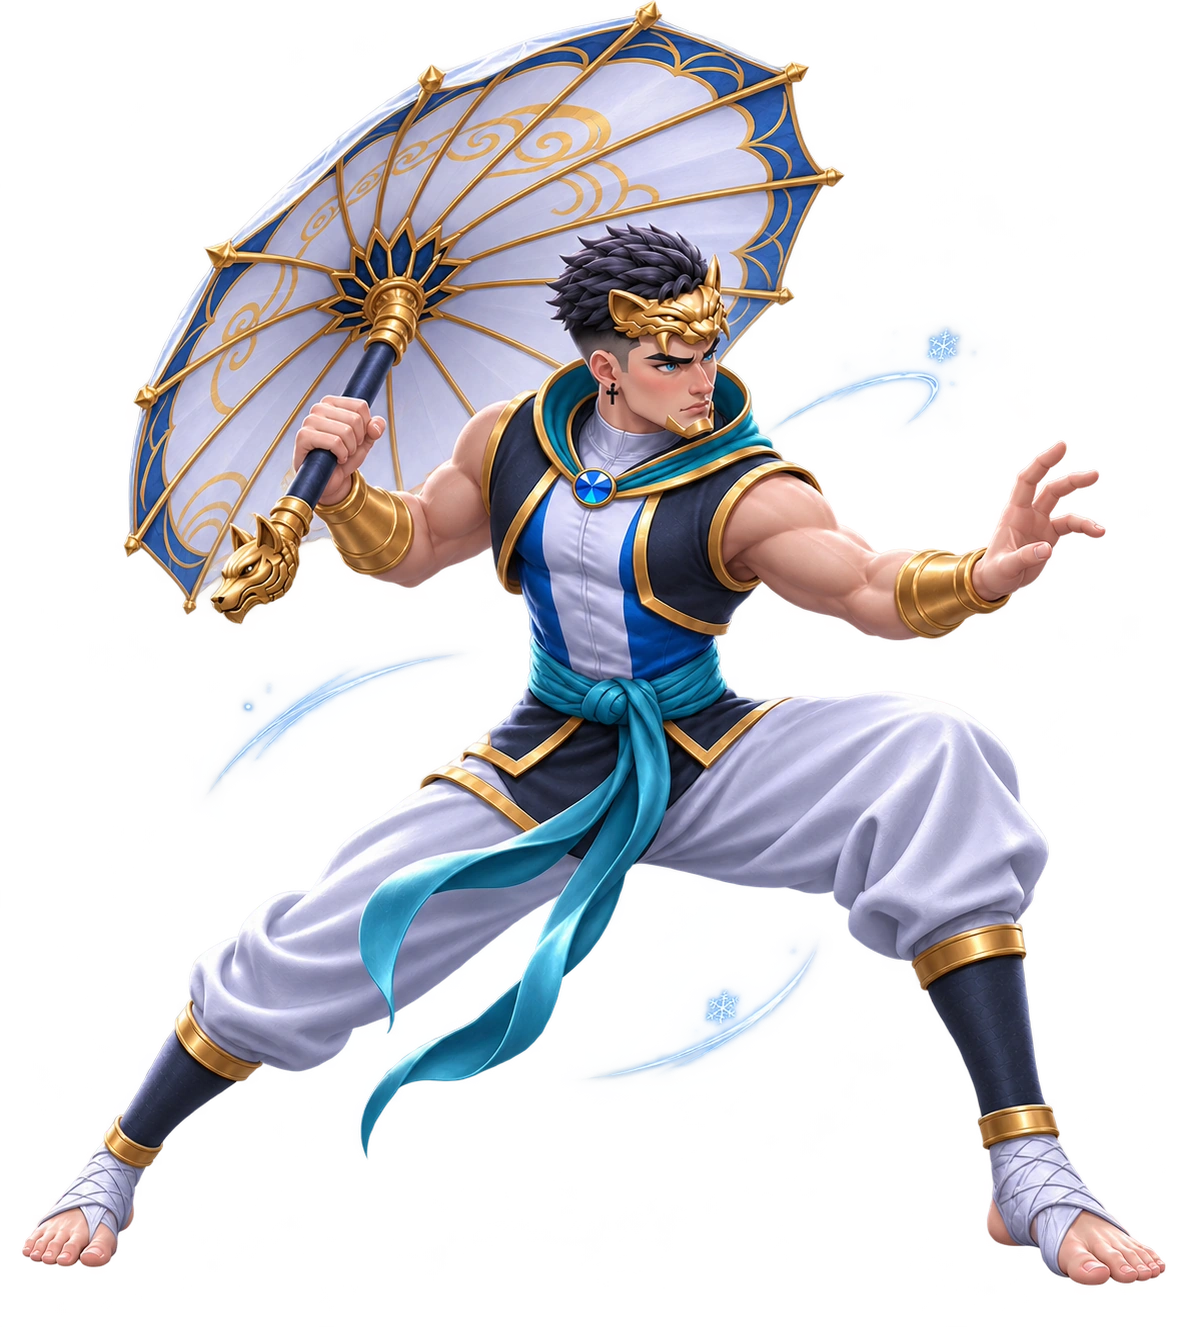
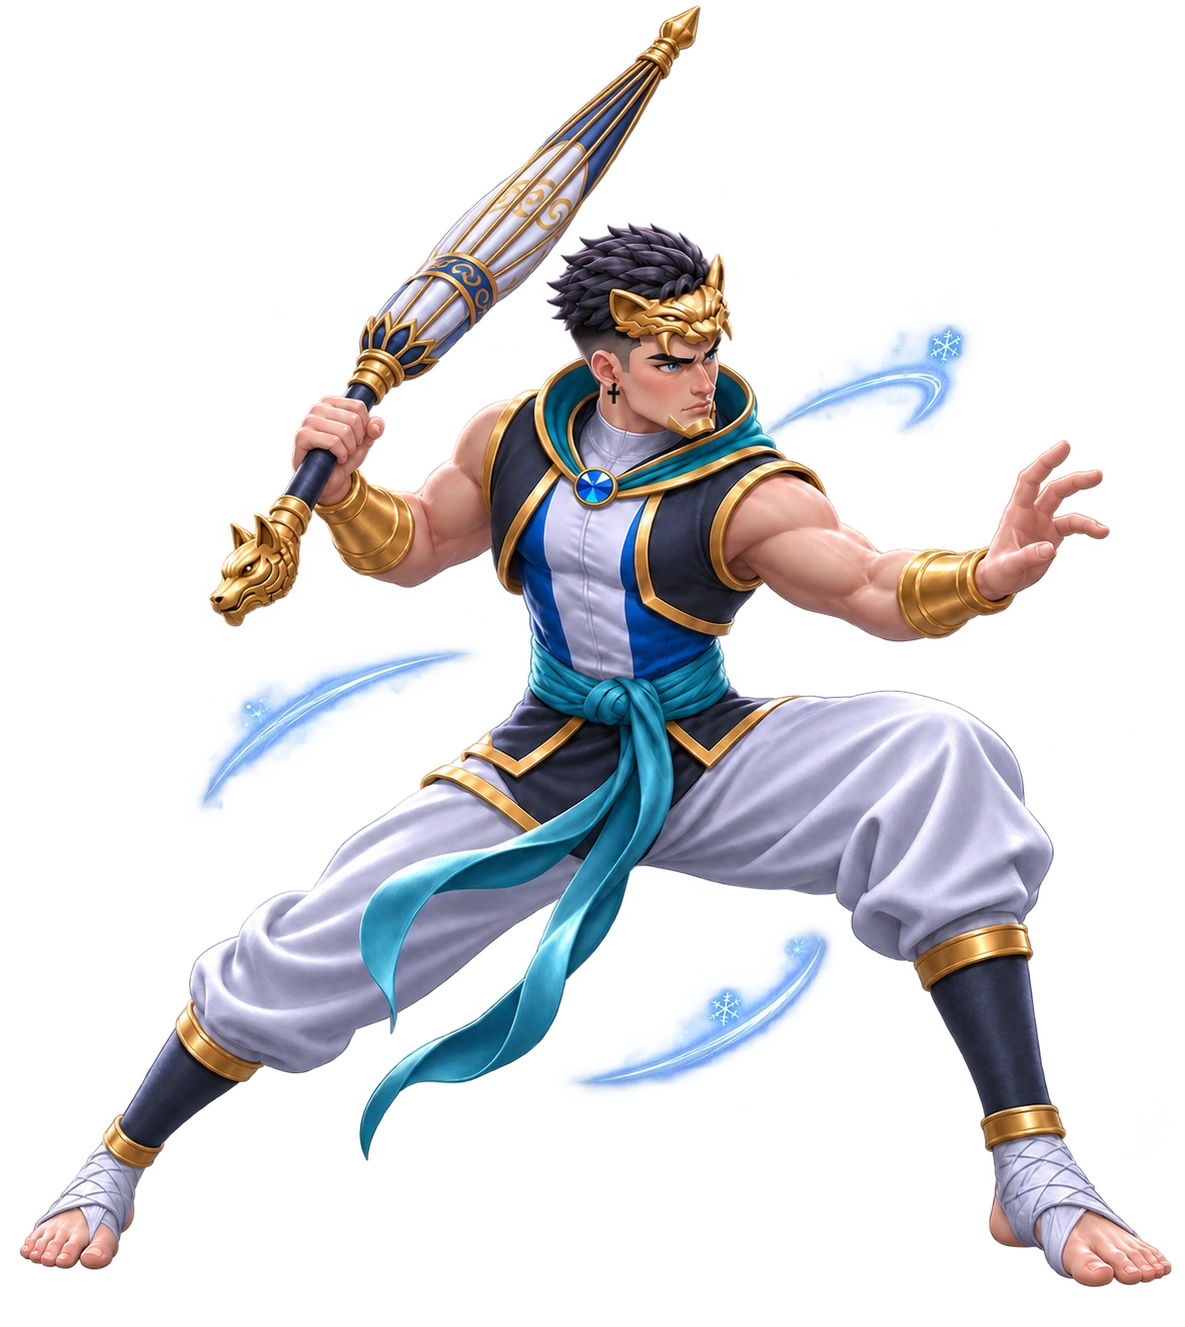
Add Island Paradise VS stances and close Dimitri umbrella

diff --git a/game.js b/game.js
@@ -3462,6 +3462,8 @@ const versusStanceFrames = new Map([
   ['academy-diamond', [1, 0, 1.7]],
   ['academy-dimitri', [1, 0, 1.7]],
   ['academy-topaz', [1, 0, 1.7]],
+  ['ip-coyote-zodiac', [1, 0, 1.7]],
+  ['ip-jet', [1, 0, 1.7]],
   ['ip-academy-chase', [1, 0, 1.7]],
   ['lt-clary', [1, 0, 1.7]],
   ['valhalla-wendy', [1, 0, 1.7]],
@@ -3522,7 +3524,7 @@ function setVersusCharacterImage(elementId, card) {
   const assetId = characterArtAliases[card.id] || card.id;
   const frame = versusStanceFrames.get(assetId);
   const fallback = resultCharacterPath(card, 'victory');
-  const url = frame ? `assets/versus-characters/${assetId}.webp?v=${poseArtVersion(assetId, 'stances-v3')}` : fallback;
+  const url = frame ? `assets/versus-characters/${assetId}.webp?v=${poseArtVersion(assetId, 'stances-v4')}` : fallback;
   if (image.dataset.versusArt !== url) {
     image.dataset.versusArt = url;
     if (frame) {
